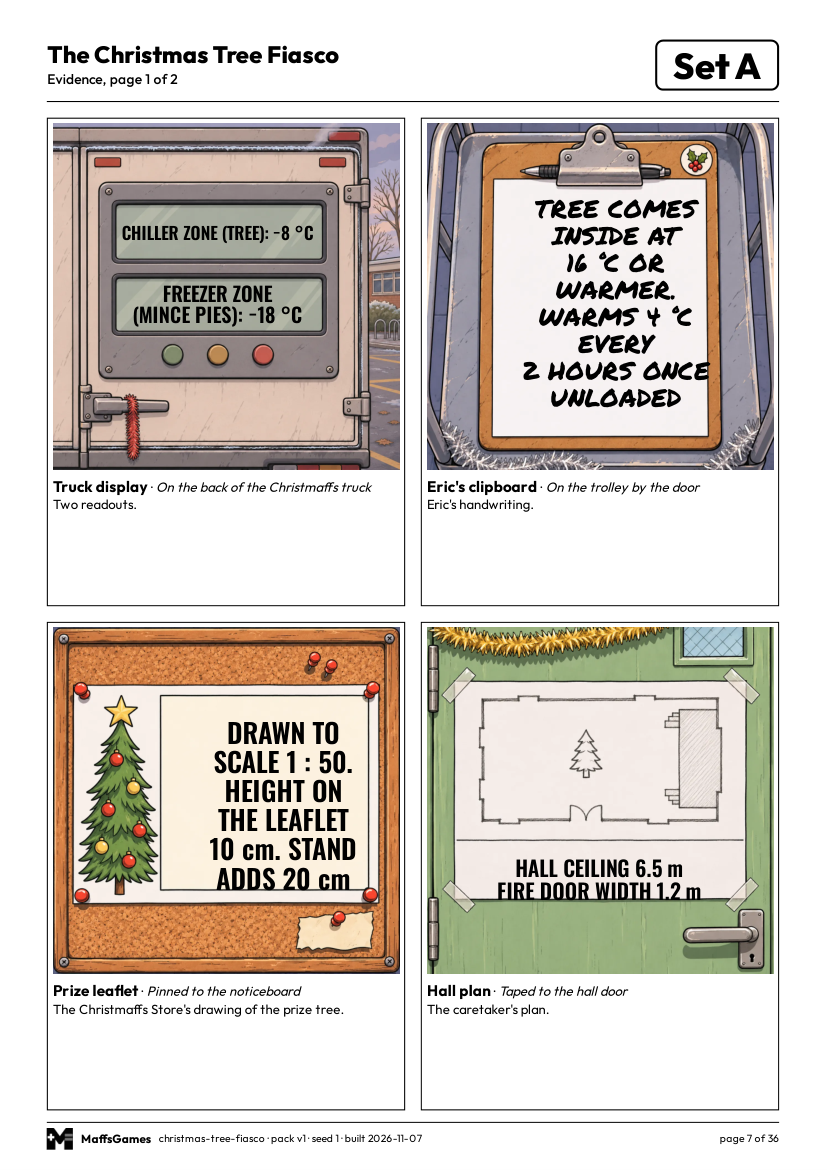
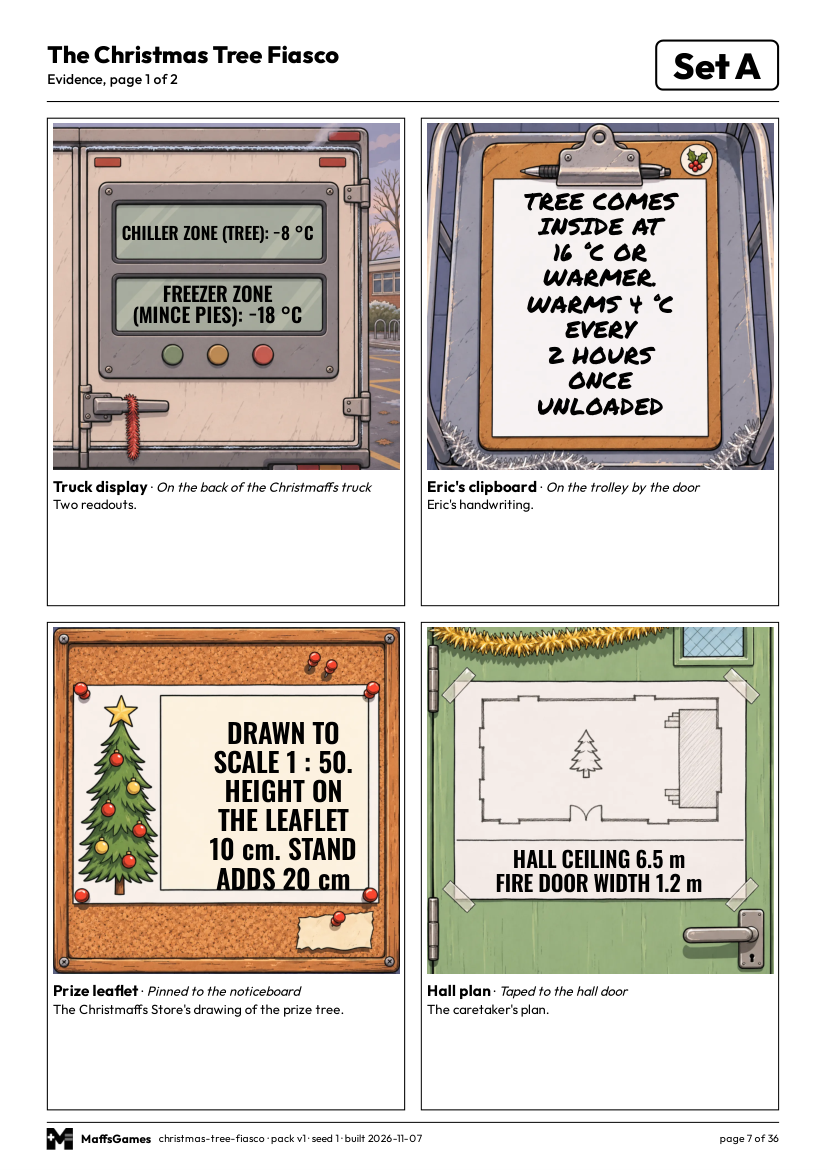
Inset Christmas label boxes within their paper

Changed region(s): [[0.6348, 0.1538, 0.8767, 0.3692], [0.6046, 0.7077, 0.8464, 0.7692]]

diff --git a/tools/pack-generator/README.md b/tools/pack-generator/README.md
@@ -50,7 +50,9 @@ Print it **at 100% (actual size), A4, double-sided off**. It is designed to prin
    answer boxes show only each instrument's picture, label and unit (no digit slots, range or maximum); the locks page
    ends with the final padlock's target, its rules, a working box and the expression line.
 6. **The look of the labels on the art:** each label is fitted to its box at 11 pt or larger. If one sits badly on
-   its picture, its box is `label_box` in `rooms/kiln-disaster/config.json` (in the image's own pixels).
+   its picture, its box is `label_box` in `rooms/kiln-disaster/config.json` (in the image's own pixels). Measure each
+   `label_box` inside the object's printable surface, never to its edge, with a margin of at least 2% of the art's
+   width on any side that meets an edge of the paper, card or screen.
 7. **Hint cards and certificate (last two pages):** the locks' three hints each, then the final padlock's card.
 8. **Footer:** the MaffsGames logo and name, the room, pack version, seed and build date on every page. Give a
    buyer's question the version and seed from the footer and the pack can be rebuilt exactly.
